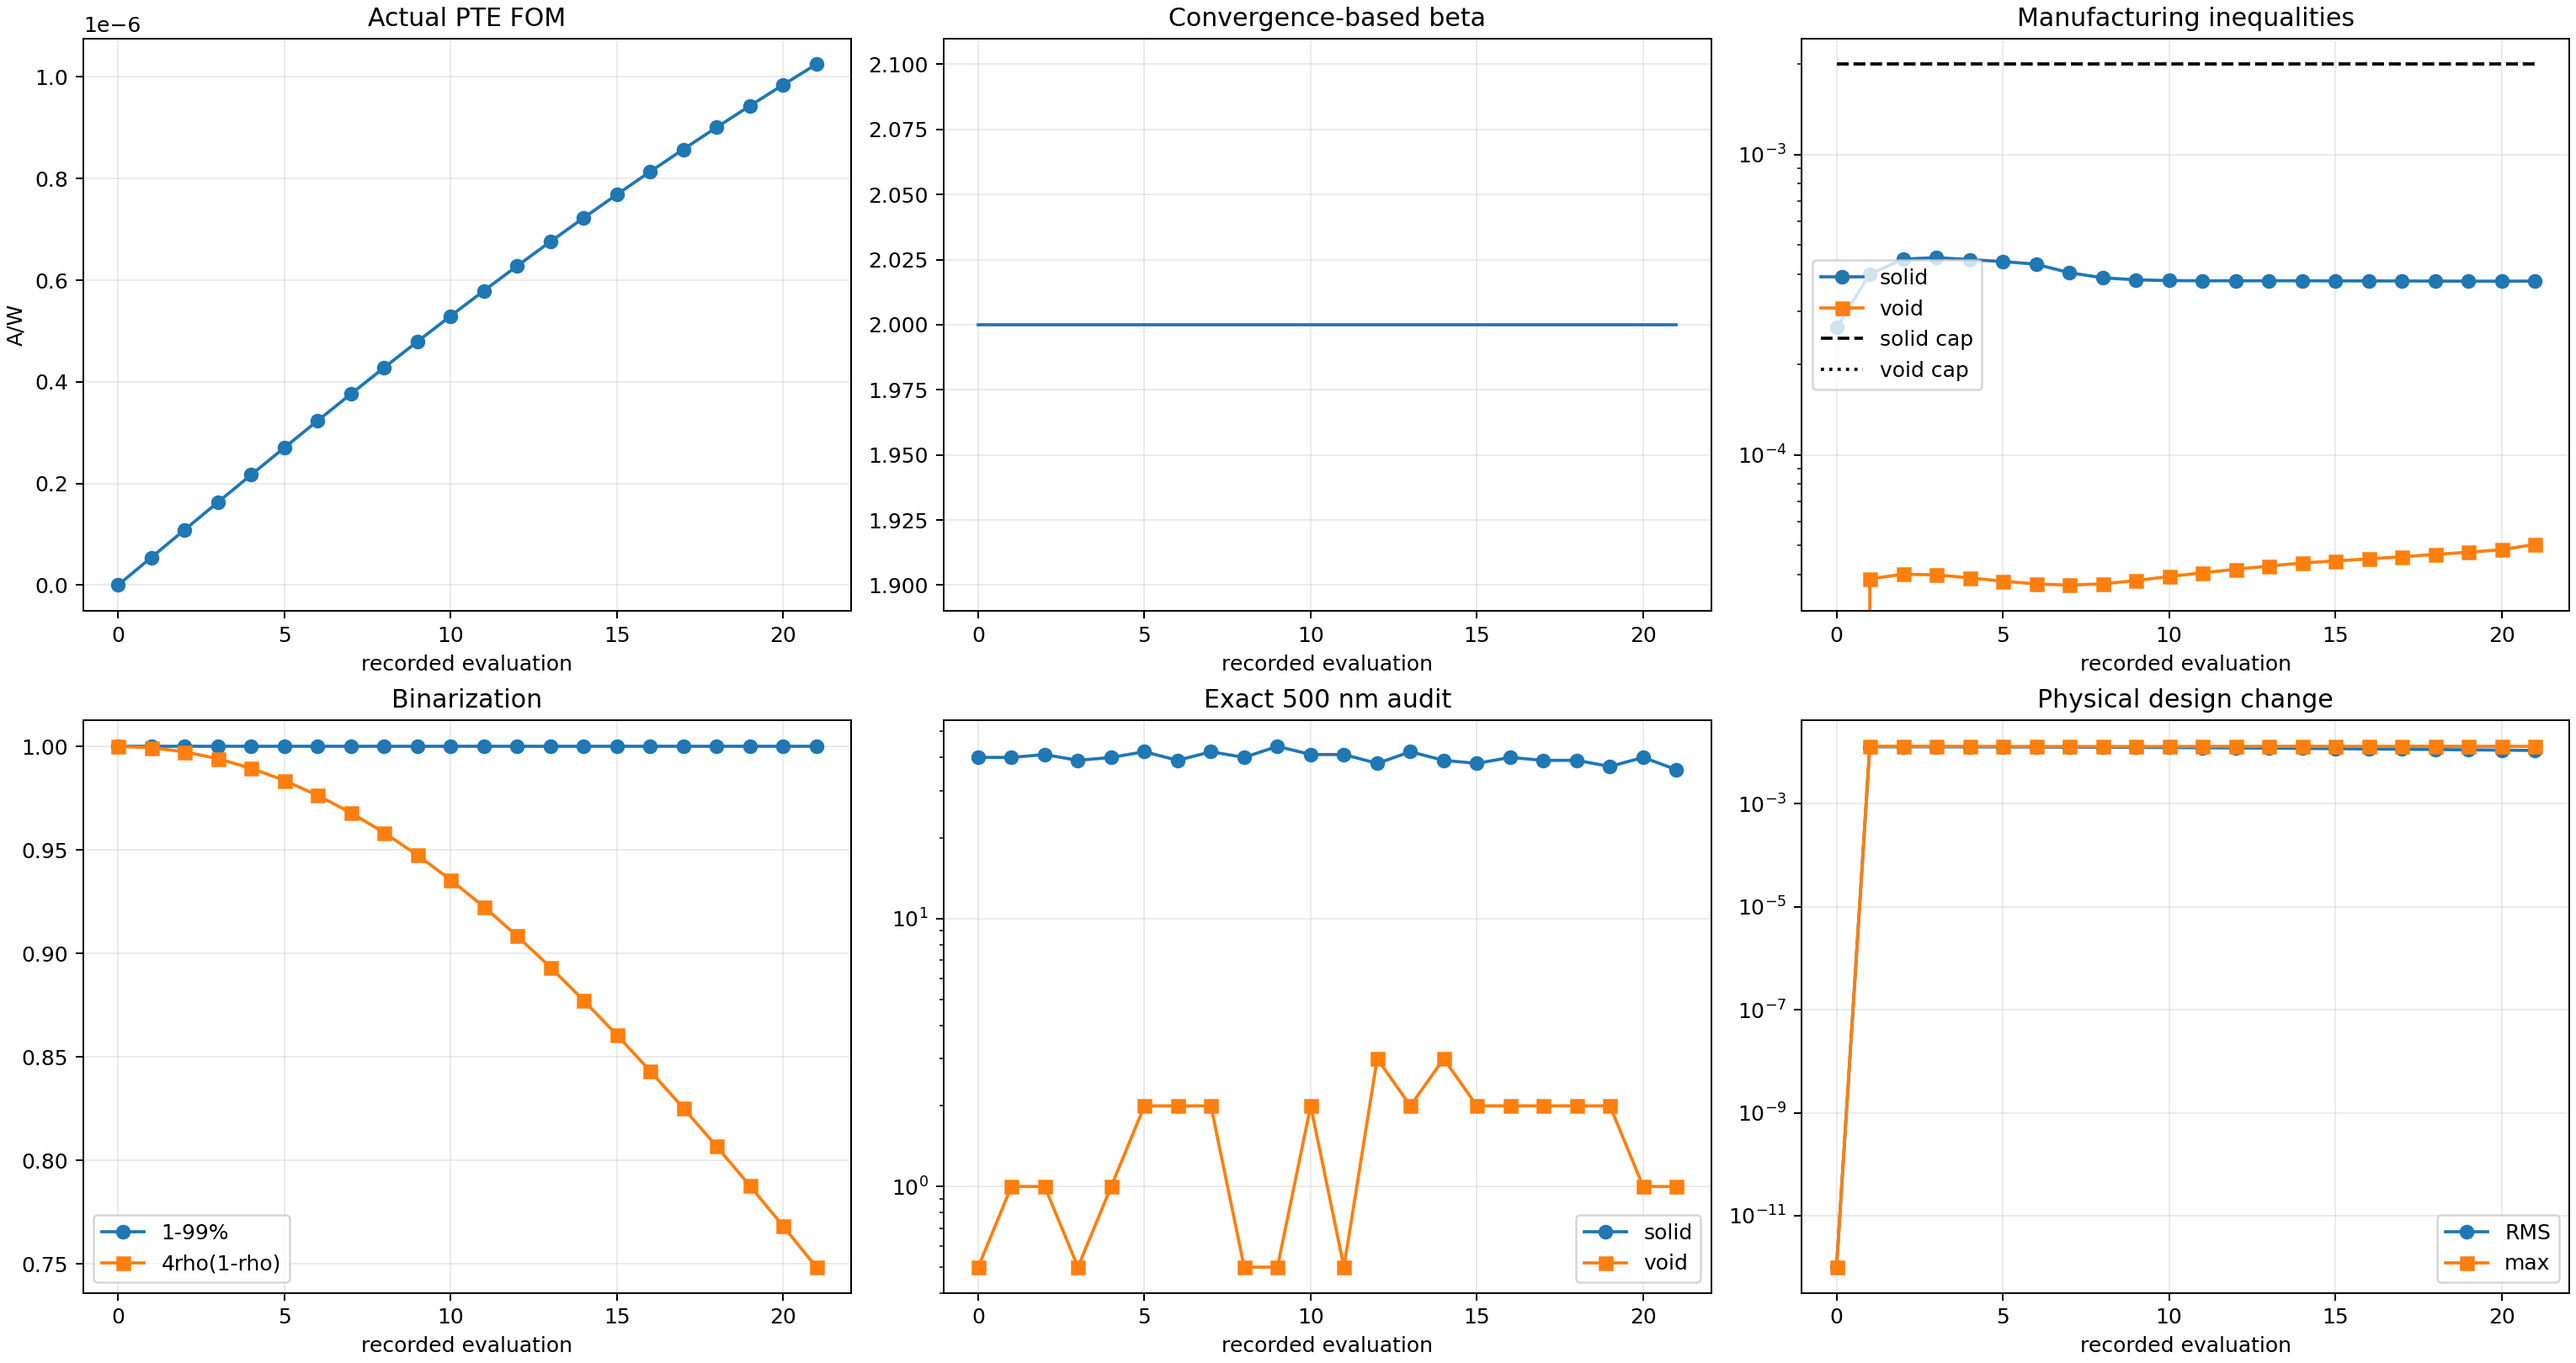
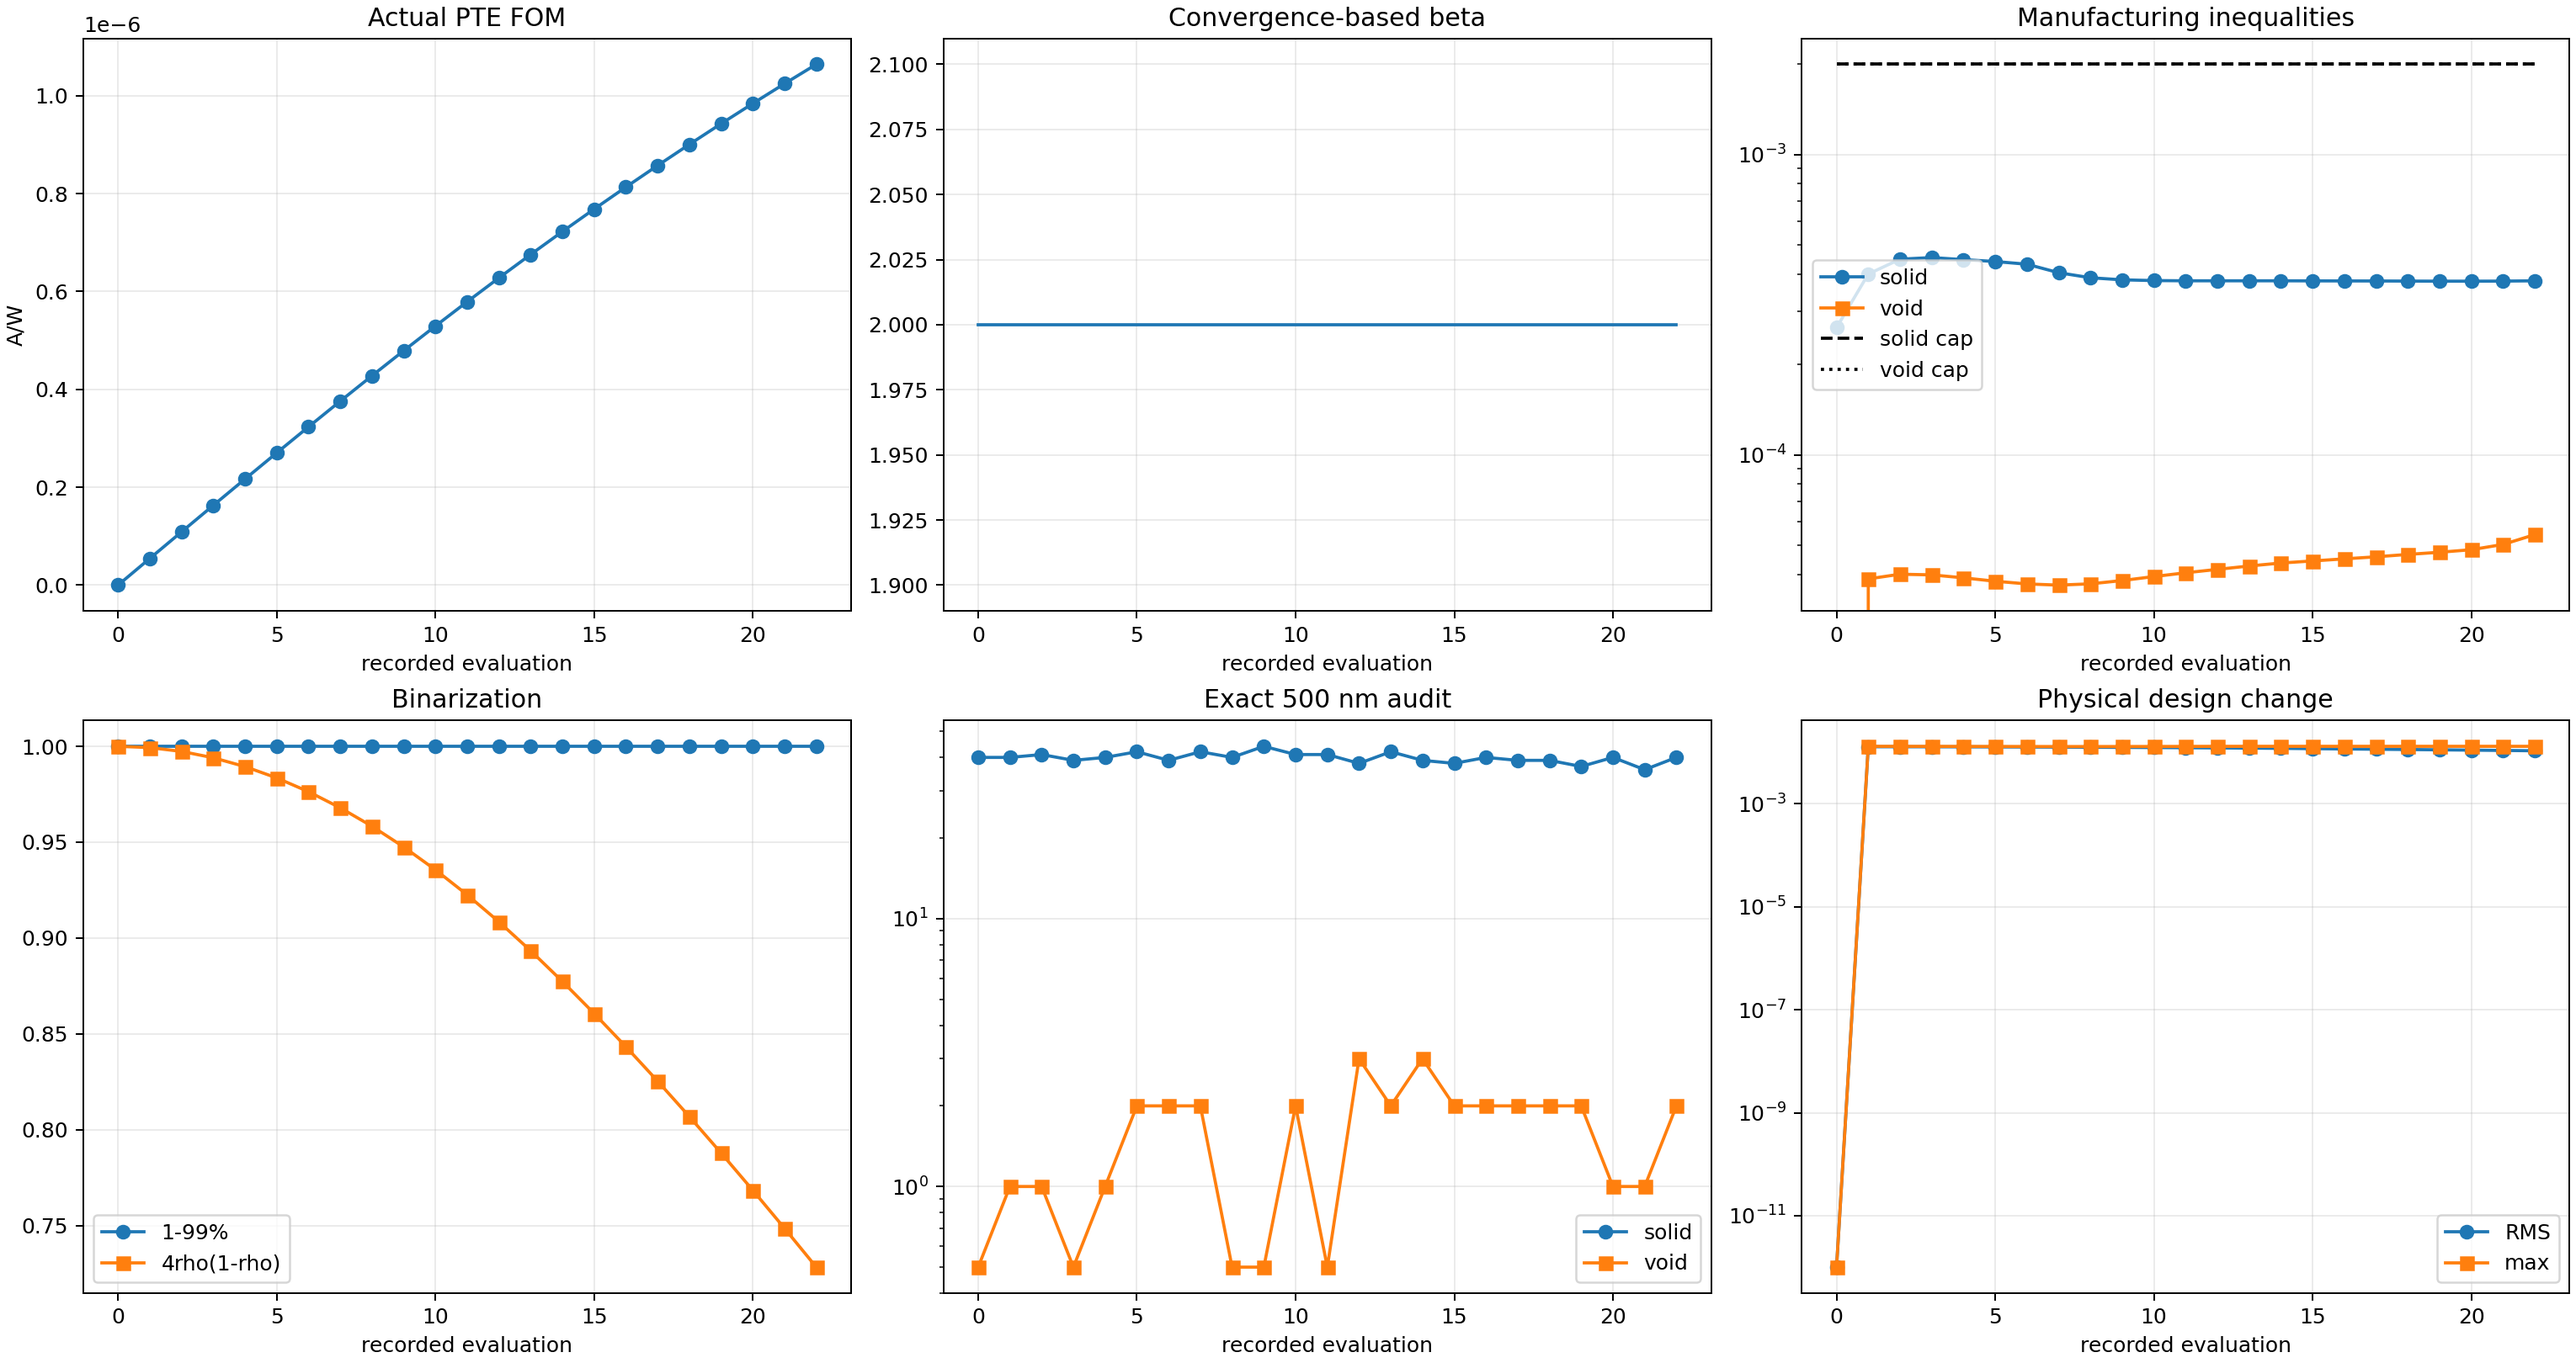
Record Run 005 run009_Ea_uniform_b002_s022_g022_accepted_mma

diff --git a/photothermal_pte/optimization_runs/run_009_uniform_Ea_from_scratch/results/OPTIMIZATION_REPORT.md b/photothermal_pte/optimization_runs/run_009_uniform_Ea_from_scratch/results/OPTIMIZATION_REPORT.md
@@ -2,12 +2,12 @@
 
 Status: `RUNNING_EXACT_UNIFORM_EA_OBJECTIVE_FIRST_OPTIMIZATION`
 
-Current stage: beta=2, accepted stage iteration=21, global iteration=21.
+Current stage: beta=2, accepted stage iteration=22, global iteration=22.
 
 Constraint contract: `soft_disk_opening_500nm_from_iteration_zero_v5`.
 
-Actual FOM: `1.024758921460e-06 A/W`. Fixed-cap solid/void constraints: `3.793491e-04` / `5.033971e-05` with caps `2.000000e-03` / `2.000000e-03`.
+Actual FOM: `1.064332383804e-06 A/W`. Fixed-cap solid/void constraints: `3.801219e-04` / `5.427245e-05` with caps `2.000000e-03` / `2.000000e-03`.
 
-Exact 500 nm bad cells: solid `36`, void `1`. Stage convergence: `False` (recent FOM/density changes have not plateaued).
+Exact 500 nm bad cells: solid `40`, void `2`. Stage convergence: `False` (recent FOM/density changes have not plateaued).
 
 Beta advances only after the stage FOM/density plateau. The run is not complete until the projected-binary and exact 500 nm gates pass and a fresh thresholded-binary GPU/CUDA evaluation succeeds.
